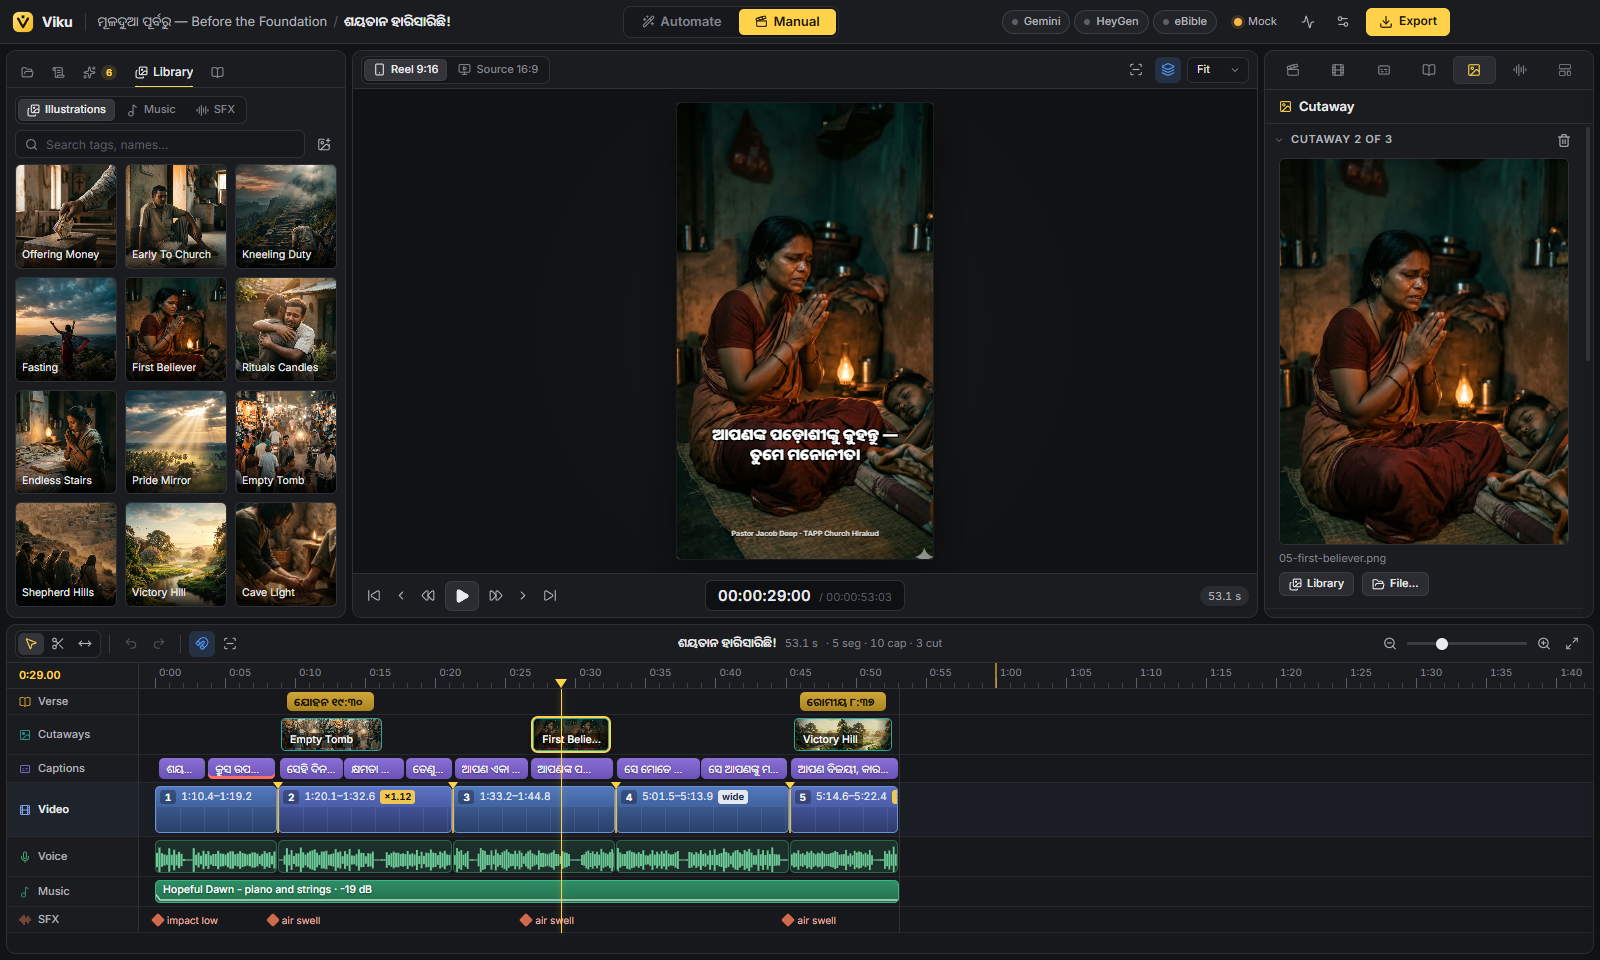
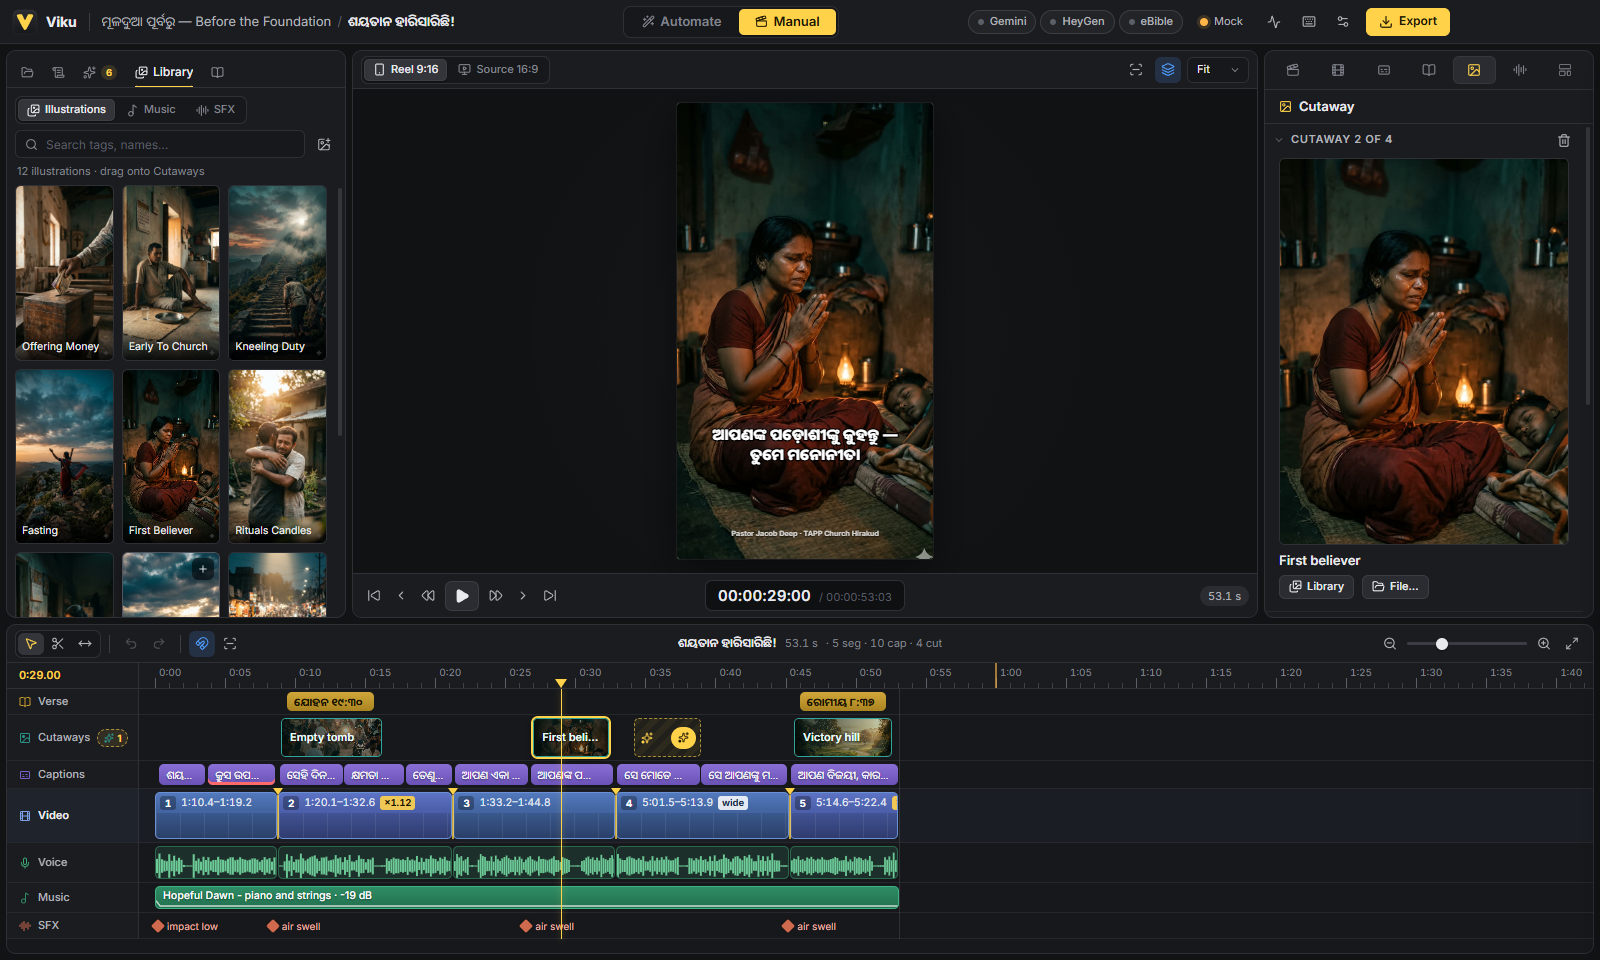
app: cutaway clip thumbnails + names, sharper cached thumbs, Automate run summary, line endings restored; README/SAVE app notes; fresh mock + live screenshots

diff --git a/app/src/renderer/src/styles/editor.css b/app/src/renderer/src/styles/editor.css
@@ -850,6 +850,13 @@
   padding: 0 16px;
 }
 
+.cut-covers {
+  margin-top: 6px;
+  color: var(--text-2);
+  font-size: var(--fs-sm);
+  line-height: 1.5;
+}
+
 .cut-preview.needs .cut-empty .small {
   color: var(--text-3);
 }
@@ -857,7 +864,10 @@
 .cut-name {
   font-size: var(--fs-md);
   font-weight: 600;
-  text-transform: capitalize;
+}
+
+.cut-name::first-letter {
+  text-transform: uppercase;
 }
 
 .music-name {
@@ -1355,31 +1365,32 @@
   z-index: 1;
   flex: 0 1 auto;
   min-width: 0;
-  padding: 0 8px;
+  padding: 0 6px 0 8px;
   font-size: 11px;
   font-weight: 600;
   color: #e8fffb;
-  text-transform: capitalize;
   text-shadow: 0 1px 2px rgba(0, 0, 0, 0.6);
 }
 
-.cut-strip {
-  position: relative;
-  flex: 1 1 auto;
-  min-width: 0;
-  height: 100%;
-  display: flex;
-  justify-content: flex-end;
-  opacity: 0.55;
-  -webkit-mask-image: linear-gradient(90deg, transparent, #000 40px);
-  mask-image: linear-gradient(90deg, transparent, #000 40px);
+.cut-bg {
+  position: absolute;
+  inset: 0;
+  overflow: hidden;
 }
 
-.cut-strip > * {
-  flex: 0 0 auto;
+.cut-bg > * {
+  width: 100%;
   height: 100%;
-  aspect-ratio: 9 / 16;
   object-fit: cover;
+  display: block;
+  opacity: 0.95;
+}
+
+.cut-bg::after {
+  content: '';
+  position: absolute;
+  inset: 0;
+  background: linear-gradient(90deg, rgba(6, 24, 22, 0.82) 0, rgba(6, 24, 22, 0.45) 55%, rgba(6, 24, 22, 0.1));
 }
 
 /* empty cutaway: waiting for a generated image */

diff --git a/app/src/renderer/src/components/automate/AutomateView.tsx b/app/src/renderer/src/components/automate/AutomateView.tsx
@@ -42,7 +42,7 @@ interface AutoState {
   set: (p: Partial<AutoState>) => void
 }
 
-const useAuto = create<AutoState>((set, get) => ({
+export const useAuto = create<AutoState>((set, get) => ({
   form: { video_path: '', language: 'auto', count: 3, max_seconds: 60, illustrations: 'library', music: 'library', thumbnails: true },
   jobId: null,
   results: [],
@@ -309,7 +309,7 @@ export function AutomateView() {
           </div>
         </header>
 
-        {collapsed && job && (
+        {collapsed && (
           <section className="auto-summary" aria-label="Last run">
             <span className="as-check">
               <Check size={16} aria-hidden />
@@ -319,7 +319,8 @@ export function AutomateView() {
                 {results.length} reel{results.length === 1 ? '' : 's'} ready
               </b>
               <span className="small muted ellipsis">
-                {fileName} · {form.language === 'auto' ? 'auto language' : form.language.toUpperCase()} · ≤ {form.max_seconds} s · finished in {took(job.updatedAt - job.startedAt)}
+                {fileName || 'Last run'} · {form.language === 'auto' ? 'auto language' : form.language.toUpperCase()} · ≤ {form.max_seconds} s
+                {job ? ` · finished in ${took(job.updatedAt - job.startedAt)}` : ''}
               </span>
             </div>
             <Button variant="ghost" icon={Wand2} onClick={() => setSetupOpen(true)}>

diff --git a/app/src/renderer/src/App.tsx b/app/src/renderer/src/App.tsx
@@ -6,6 +6,7 @@ import { useJobs } from '@/state/jobs'
 import { usePlayback } from '@/state/playback'
 import { handleCapture, syncQueue } from '@/lib/gemini'
 import { useLibraryIndex } from '@/lib/cutaways'
+import { useTranscriptSel } from '@/state/transcriptSel'
 import { useHotkeys } from '@/lib/hotkeys'
 import { TopBar } from '@/components/TopBar'
 import { Logo } from '@/components/Logo'
@@ -13,7 +14,7 @@ import { Browser } from '@/components/browser/Browser'
 import { Viewer } from '@/components/viewer/Viewer'
 import { Inspector } from '@/components/inspector/Inspector'
 import { Timeline } from '@/components/timeline/Timeline'
-import { AutomateView } from '@/components/automate/AutomateView'
+import { AutomateView, useAuto } from '@/components/automate/AutomateView'
 import { ActivityDrawer, ExportDialog, Splitter, Toasts } from '@/components/shell/Shell'
 import { SettingsDialog } from '@/components/shell/SettingsDialog'
 import { ShortcutsSheet } from '@/components/shell/ShortcutsSheet'
@@ -75,7 +76,7 @@ async function boot(onWait: (msg: string) => void): Promise<void> {
   })
 
   if (params.has('debug')) {
-    Object.assign(window, { __viku: { useApp, useEditor, usePlayback, useJobs, api, currentReel } })
+    Object.assign(window, { __viku: { useApp, useEditor, usePlayback, useJobs, useAuto, useTranscriptSel, api, currentReel } })
   }
 }
 

diff --git a/app/src/renderer/src/components/timeline/Lanes.tsx b/app/src/renderer/src/components/timeline/Lanes.tsx
@@ -233,7 +233,6 @@ ${c.need.prompt}` : ''}`}
           )
         }
         const thumb = api().thumbUrl(c.img, 160)
-        const frames = Math.max(0, Math.min(6, Math.floor((w - 150) / 30)))
         return (
           <div
             key={i}
@@ -243,17 +242,15 @@ ${c.need.prompt}` : ''}`}
             title={`${name}
 ${c.img}`}
           >
-            <span className="cut-thumb">
+            <span className="cut-bg" aria-hidden>
               <Thumb src={thumb} alt="" seed={i + 3} />
             </span>
-            {w > 56 && <span className="cut-name ellipsis">{name}</span>}
-            {frames > 0 && (
-              <span className="cut-strip" aria-hidden>
-                {Array.from({ length: frames }).map((_, k) => (
-                  <Thumb key={k} src={thumb} alt="" seed={i + 3} />
-                ))}
+            {w >= 120 && (
+              <span className="cut-thumb">
+                <Thumb src={thumb} alt="" seed={i + 3} />
               </span>
             )}
+            {w > 30 && <span className="cut-name ellipsis">{name}</span>}
             <span className="xfade l" />
             <span className="xfade r" />
           </div>

diff --git a/app/src/main/thumbs.ts b/app/src/main/thumbs.ts
@@ -39,9 +39,12 @@ export function handleThumbs(cacheDir: () => string): void {
       const info = head ? imageInfo(head) : null
       let img: Electron.NativeImage | null = null
       try {
-        const t = await nativeImage.createThumbnailFromPath(src, { width: w, height: Math.round(w * 2.4) })
+        // the shell fits the thumbnail in a square box: ask for the long side so a 9:16 image comes back >= w wide
+        const box = Math.round(w * Math.max(1, info ? info.height / Math.max(1, info.width) : 1.8))
+        const t = await nativeImage.createThumbnailFromPath(src, { width: box, height: box })
         const s = t.getSize()
-        const ok = !t.isEmpty() && (!info || Math.abs(s.width / s.height - info.width / info.height) < 0.03)
+        const sharp = s.width >= Math.min(w, info?.width ?? w) * 0.95
+        const ok = !t.isEmpty() && sharp && (!info || Math.abs(s.width / s.height - info.width / info.height) < 0.03)
         if (ok) img = s.width > w ? t.resize({ width: w, quality: 'good' }) : t
       } catch {
         /* no shell thumbnail: decode below */

diff --git a/app/src/renderer/src/components/inspector/OverlayPanels.tsx b/app/src/renderer/src/components/inspector/OverlayPanels.tsx
@@ -134,11 +134,12 @@ export function CutawayPanel({ reel }: { reel: Reel }) {
               <Sparkles size={18} aria-hidden />
               <b>Needs image</b>
               <span className="small">{queued ? 'Queued in AI Studio…' : 'Generate it in AI Studio, or pick one'}</span>
+              {c.need?.text && <span className={`cut-covers lang-${reel.language}`}>“{c.need.text}”</span>}
             </span>
           )}
         </div>
         <div className="cut-name ellipsis" title={c.img || undefined}>
-          {cutawayName(c) || 'Empty cutaway'}
+          {cutawayName(c) || (c.img ? 'Illustration' : 'Waiting for an image')}
         </div>
         <div className="row gap">
           <Button size="sm" icon={Images} onClick={() => useApp.getState().set({ browserTab: 'library', libraryTab: 'illustrations' })}>

diff --git a/app/src/renderer/src/components/viewer/Overlays.tsx b/app/src/renderer/src/components/viewer/Overlays.tsx
@@ -4,6 +4,7 @@ import { api } from '@/api'
 import { scriptFont } from '@/lib/lang'
 import { Sparkles } from 'lucide-react'
 import { Thumb } from '../ui'
+import { cutawayName } from '@/lib/cutaways'
 
 export const TRANS = 0.7 // cross-zoom dissolve seconds
 
@@ -31,7 +32,7 @@ export function CutawayLayer({ reel, t }: { reel: Reel; t: number }) {
             <div key={i} className="ov-need">
               <Sparkles size={64} aria-hidden />
               <b>Needs image</b>
-              {c.need?.slug && <span>{c.need.slug.replace(/^\d+[-_]*/, '').replace(/[-_]+/g, ' ')}</span>}
+              {cutawayName(c) && <span>{cutawayName(c)}</span>}
             </div>
           )
         }

diff --git a/app/src/renderer/src/styles/shell2.css b/app/src/renderer/src/styles/shell2.css
@@ -299,10 +299,10 @@
   flex: 1;
   min-height: 0;
   overflow: auto;
-  padding: 44px 52px 20px;
+  padding: 38px 52px 18px;
   display: flex;
   flex-direction: column;
-  gap: 20px;
+  gap: 18px;
   animation: ob-in 280ms var(--ease);
 }
 
@@ -535,7 +535,7 @@
   display: flex;
   align-items: flex-start;
   gap: 10px;
-  padding: 11px 12px;
+  padding: 9px 12px;
   border-radius: 10px;
   background: var(--bg-2);
   border: 1px solid var(--line);

diff --git a/app/src/renderer/src/styles/automate.css b/app/src/renderer/src/styles/automate.css
@@ -647,12 +647,11 @@
 .rcard-title {
   font-weight: 700;
   font-size: 14px;
-  line-height: 1.45;
+  line-height: 1.4;
   display: -webkit-box;
   -webkit-line-clamp: 2;
   -webkit-box-orient: vertical;
   overflow: hidden;
-  min-height: 2.9em;
 }
 
 .rcard-meta {
